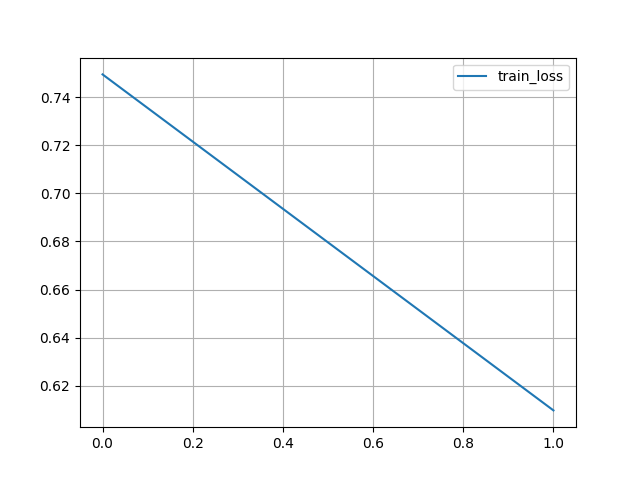
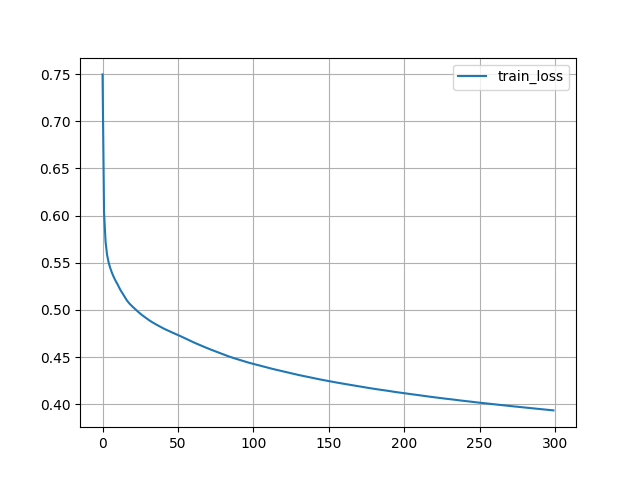
update

diff --git a/codes/Attention/bahdanau_attention.py b/codes/Attention/bahdanau_attention.py
@@ -3,6 +3,9 @@ sys.path.append('../')
 
 import torch
 import torch.nn as nn
+import matplotlib
+matplotlib.use('Agg')
+import matplotlib.pyplot as plt
 
 from attention_scoring_functions import AdditiveAttention
 from Modern_RNNs.seq2seq import *
@@ -59,7 +62,7 @@ class Seq2SeqAttentionDecoder(nn.Module):
         return self._attention_weights
 
 
-def main(batch_size=64, epochs=2, lr=0.005, 
+def main(batch_size=64, epochs=300, lr=0.005, 
          num_steps=10, embedding_dim=32, num_hiddens=32, num_layers=2, dropout=0.1,
          fig_name='bahdanau_attention', to_predict=True):
     device = torch.device('cuda' if torch.cuda.is_available() else 'cpu')
@@ -81,8 +84,15 @@ def main(batch_size=64, epochs=2, lr=0.005,
             translation, attention_weight_seq = predict(
             net, device, eng, source_vocab, target_vocab, num_steps, device)
             print(f'{eng} => {translation}, bleu={BLEU(translation, fra, k=2):.3f}')
-
-        print(attention_weight_seq)
+        attention_weights = torch.cat([step[0][0][0] for step in attention_weight_seq], 0).reshape((1, 1, -1, num_steps)).squeeze()
+        print(attention_weights)
+        attention_weights = attention_weights.detach().cpu().numpy()
+        plt.imshow(attention_weights, cmap='Reds')
+        plt.xlabel('queries')
+        plt.ylabel('keys')
+        plt.colorbar()
+        plt.savefig('./images/bahdanau_attention_weight.png')
+        plt.close()
 
 if __name__ == "__main__":
     main()

diff --git a/codes/Modern_RNNs/seq2seq.py b/codes/Modern_RNNs/seq2seq.py
@@ -178,10 +178,12 @@ def train(epochs, data_iter, target_vocab,
         
     if fig_name:
         steps = list(range(len(train_losses)))
+        plt.cla()
         plt.plot(steps, train_losses, label='train_loss')
         plt.legend()
         plt.grid(True)
         plt.savefig("./images/%s.png" % fig_name)
+        plt.close()
         
             
 
